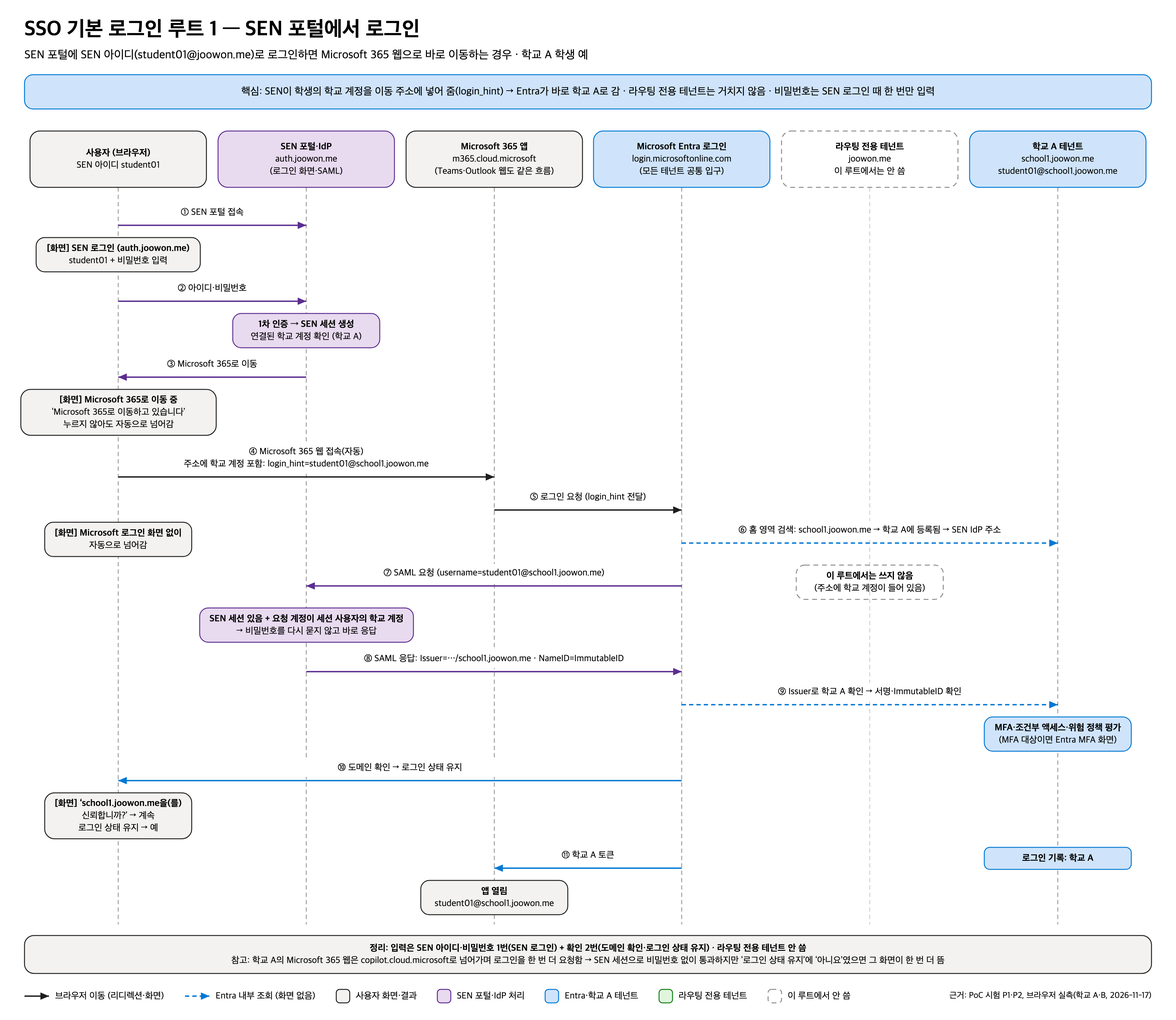
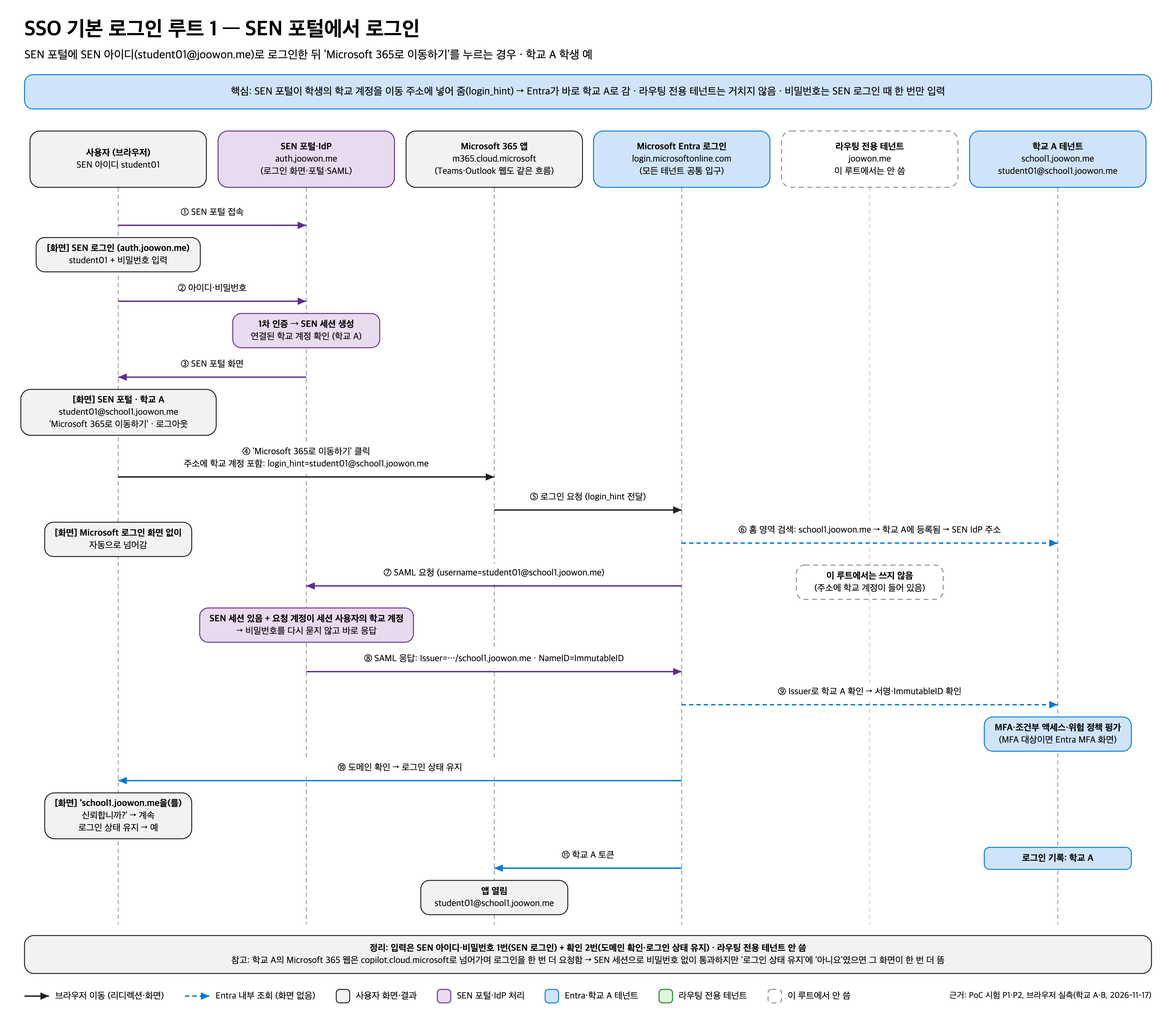
Show a SEN portal after login and a signed-in check on return
After signing in without an app request, show the SEN portal again in a
simpler form: greeting, school, the real Microsoft 365 account, a logout
button and a single 'Microsoft 365로 이동하기' button that uses
Microsoft 365's account switch URL. Coming back to auth.joowon.me while
still signed in shows who is signed in with Microsoft 365 and logout
buttons instead of signing in silently.

Microsoft's logout notice reaches the IdP without the cookie or not at
all, so also keep SEN sign-ins for 10 minutes (IDP_SESSION_MINUTES).
Update the route 1 and configuration diagrams, README and tools.

diff --git a/idp/static/login.css b/idp/static/login.css
@@ -129,7 +129,7 @@ a { color: inherit; }
 .msg:empty { min-height: 0; margin: 0; }
 
 /* 유리 단추 */
-.round, .chip {
+.round, .chip, .btn {
   flex: none; position: relative; display: inline-flex; align-items: center; justify-content: center; border: 0; cursor: pointer;
   background: radial-gradient(120% 120% at 30% 18%, #fff 0%, #f6f7f9 55%, #e9ebef 100%);
   box-shadow: 0 0 0 1px var(--line), 0 3px 8px -4px rgba(15, 23, 42, .2), inset 0 1px 1px #fff, inset 0 -2px 4px rgba(15, 23, 42, .06);
@@ -138,15 +138,20 @@ a { color: inherit; }
 .round { width: 40px; height: 40px; padding: 0; border-radius: 50%; }
 .round svg { width: 18px; height: 18px; transition: opacity .2s; }
 .round:disabled { opacity: .4; cursor: default; }
-.round:not(:disabled):hover, .chip:hover { transform: scale(1.05); }
-.round:not(:disabled):active, .chip:active { transform: scale(.92); transition-duration: .15s; }
-.round:focus-visible, .chip:focus-visible, .icon:focus-visible, .choice:focus-visible {
+.round:not(:disabled):hover, .chip:hover, .btn:hover { transform: scale(1.05); }
+.round:not(:disabled):active, .chip:active, .btn:active { transform: scale(.92); transition-duration: .15s; }
+.round:focus-visible, .chip:focus-visible, .btn:focus-visible, .icon:focus-visible, .choice:focus-visible {
   outline: 2px solid rgba(15, 23, 42, .16); outline-offset: 3px;
 }
 .chip {
   gap: 6px; height: 36px; padding: 0 16px; border-radius: 999px;
   font-size: 14px; font-weight: 500; letter-spacing: -.01em; text-decoration: none; white-space: nowrap;
 }
+.btn {
+  gap: 8px; height: 44px; padding: 0 20px; border-radius: 999px;
+  font-size: 15px; font-weight: 600; letter-spacing: -.01em; text-decoration: none; white-space: nowrap;
+}
+.btn svg { width: 16px; height: 16px; }
 .icon {
   flex: none; display: inline-flex; align-items: center; justify-content: center; width: 38px; height: 38px; padding: 0;
   border: 0; border-radius: 50%; background: none; color: #86868b; cursor: pointer; transition: color .2s var(--ease);
@@ -164,7 +169,7 @@ a { color: inherit; }
 .busy .round::after { position: absolute; inset: 0; margin: auto; }
 @keyframes spin { to { transform: rotate(1turn); } }
 
-/* 로그인 뒤 이동 화면 */
+/* Microsoft로 넘어가는 화면(SAML 응답 자동 전송) */
 .post { display: flex; flex-direction: column; align-items: center; width: 100%; margin-top: 36px; padding-bottom: 8px; }
 .post .spinner { width: 22px; height: 22px; }
 .post-text { margin: 16px 0 0; font-size: 16px; letter-spacing: -.01em; text-align: center; }
@@ -182,8 +187,19 @@ a { color: inherit; }
 .choice:hover { background: rgba(255, 255, 255, .7); }
 .choice .text { flex: 1; min-width: 0; }
 .choice .name { display: block; font-size: 16px; font-weight: 600; letter-spacing: -.01em; }
-.choice .upn { display: block; font: 13px/1.5 var(--mono); color: var(--muted); word-break: break-all; }
+.choice .upn, .tenant .upn { display: block; font: 13px/1.5 var(--mono); color: var(--muted); word-break: break-all; }
 .choice svg { flex: none; width: 18px; height: 18px; color: var(--hint); }
+
+/* SEN 포털(로그인 뒤)·로그인 상태 확인 */
+.card.wide { width: min(560px, 100%); align-items: stretch; padding: 32px 28px 28px; }
+.bar { display: flex; align-items: center; justify-content: space-between; gap: 12px; }
+.card.wide .title { margin-top: 32px; text-align: left; }
+.card.wide .sub { text-align: left; }
+.tenant { margin-top: 24px; padding: 18px 20px 20px; }
+.tenant h2 { margin: 0; font-size: 17px; font-weight: 600; letter-spacing: -.01em; }
+.tenant .upn { margin-top: 2px; }
+.tenant .btn { margin-top: 16px; }
+.actions { display: flex; flex-wrap: wrap; justify-content: center; gap: 10px; margin-top: 24px; }
 
 /* IdP 기록 */
 .card.log { width: min(1200px, 100%); align-items: stretch; padding: 28px; }
@@ -205,7 +221,8 @@ table.log td pre { margin: 0; font: 11px/1.6 var(--mono); white-space: pre-wrap;
   .card { padding: 36px 16px 16px; border-radius: 28px; }
   .row { padding-left: 18px; }
   .row + .row::before { left: 18px; }
-  .card.log { padding: 24px 16px 18px; }
+  .card.wide, .card.log { padding: 24px 16px 18px; }
+  .tenant { padding: 16px; }
 }
 @media (prefers-reduced-motion: reduce) {
   *, *::before, *::after { animation: none !important; transition: none !important; }

diff --git a/idp/templates/portal.html b/idp/templates/portal.html
@@ -1,0 +1,19 @@
+{% extends "_layout.html" %}
+{% block title %}SEN 포털 (PoC){% endblock %}
+{% block body %}
+<div class="glass card wide">
+  <div class="bar">
+    {% include "_logo.html" %}
+    <a class="chip" href="{{ url_for('logout') }}">로그아웃</a>
+  </div>
+  <h1 class="title">{{ name }}님, 안녕하세요</h1>
+  <p class="sub">아이디 {{ uid }}@{{ id_domain }}로 로그인했습니다.</p>
+  <section class="group tenant">
+    <h2>{{ school }}</h2>
+    <span class="upn">{{ upn }}</span>
+    <a class="btn" id="goM365" href="{{ href }}">Microsoft 365로 이동하기
+      <svg viewBox="0 0 24 24" fill="none" stroke="currentColor" stroke-width="2.2" stroke-linecap="round" stroke-linejoin="round" aria-hidden="true"><path d="M5 12h14M13 5.5l6.5 6.5-6.5 6.5"/></svg>
+    </a>
+  </section>
+</div>
+{% endblock %}

diff --git a/idp/templates/signed_in.html b/idp/templates/signed_in.html
@@ -1,0 +1,12 @@
+{% extends "_layout.html" %}
+{% block title %}로그인 상태 (PoC){% endblock %}
+{% block body %}
+<div class="glass card">
+  {% include "_logo.html" %}
+  <h1 class="title">{{ uid }}로 로그인되어 있습니다.</h1>
+  <div class="actions">
+    <a class="btn" id="goM365" href="{{ href }}">Microsoft 365로 이동하기</a>
+    <a class="btn" href="{{ url_for('logout') }}">로그아웃</a>
+  </div>
+</div>
+{% endblock %}

diff --git a/idp/templates/_layout.html b/idp/templates/_layout.html
@@ -8,7 +8,6 @@
   <title>{% block title %}로그인 (PoC){% endblock %}</title>
   <link rel="stylesheet" href="https://cdn.jsdelivr.net/gh/orioncactus/pretendard@v1.3.9/dist/web/static/pretendard.min.css">
   <link rel="stylesheet" href="{{ url_for('static', filename='login.css') }}">
-  {% block head %}{% endblock %}
 </head>
 <body>
 <div class="light" aria-hidden="true"><i></i><i></i></div>

diff --git a/idp/app.py b/idp/app.py
@@ -7,7 +7,8 @@ IdP 한 벌로 여러 테넌트를 처리한다.
 - 인증: IdP는 1차 인증(아이디·비밀번호)만 한다. MFA는 Entra가 직접 수행하므로
   (도메인 federatedIdpMfaBehavior=rejectMfaByFederatedIdp) MFA 수행 표시(multipleauthn)를 보내지 않는다.
 - 로그인 화면: IdP가 /login에서 직접 보낸다. 비밀번호 입력 화면에도 보안 헤더(다른 사이트의 iframe 삽입 차단 등)가 붙는다.
-- 앱 요청 없이 로그인하면(루트 1) 학교 계정으로 Microsoft 365 웹에 바로 들어간다.
+- 앱 요청 없이 로그인하면(루트 1) SEN 포털 화면에 학교 계정과 'Microsoft 365로 이동하기'를 보여 준다.
+- 로그인 유지 시간은 짧게(기본 10분) 둔다. Microsoft 로그아웃 알림이 SEN에 오지 않아도 오래된 로그인을 다시 쓰지 못하게 한다.
 """
 import base64
 import collections
@@ -28,7 +29,7 @@ import saml_core as sc
 HERE = os.path.dirname(os.path.abspath(__file__))
 PENDING_TTL = 15 * 60
 FAIL_WINDOW, FAIL_LIMIT = 10 * 60, 30
-VERSION = "2026-11-17.slo-end-session"
+VERSION = "2026-11-17.sen-portal"
 # Microsoft 365 계정 관리자가 다른 계정으로 바꿀 때 쓰는 주소다. 브라우저에 다른 Microsoft 계정(예: Edge 프로필의
 # 회사 계정)이 로그인돼 있어도 이 학교 계정으로 로그인을 새로 시작한다. 첫 화면 주소(/?login_hint=)는 그런 브라우저에서
 # 힌트를 무시하고 기존 계정으로 열릴 수 있다.
@@ -60,6 +61,7 @@ def _env_config():
         "DATA_DIR": os.environ.get("DATA_DIR", os.path.join(HERE, "data")),
         "SECRET_KEY": os.environ.get("SECRET_KEY") or secrets.token_hex(32),
         "ADMIN_TOKEN": os.environ.get("ADMIN_TOKEN", ""),
+        "SESSION_MINUTES": float(os.environ.get("IDP_SESSION_MINUTES", "10")),
         "ACTIVE_SIGNING": os.environ.get("ACTIVE_SIGNING", "current"),
         "KEYS": {
             "current": (pem("SIGNING_KEY_B64", "current.key"), pem("SIGNING_CERT_B64", "current.pem")),
@@ -85,7 +87,7 @@ def create_app(overrides=None):
         SESSION_COOKIE_HTTPONLY=True,
         # Entra가 POST로 로그인 요청을 보내도 기존 로그인 세션이 전달되도록 None
         SESSION_COOKIE_SAMESITE="None",
-        PERMANENT_SESSION_LIFETIME=dt.timedelta(hours=8),
+        PERMANENT_SESSION_LIFETIME=dt.timedelta(minutes=cfg["SESSION_MINUTES"]),
     )
 
     log_buffer = collections.deque(maxlen=1000)
@@ -178,8 +180,14 @@ def create_app(overrides=None):
     @app.before_request
     def drop_ended_session():
         uid = session.get("uid")
-        if uid and session.get("iat", 0) <= max(ended.get(uid, 0), started):
+        if not uid:
+            return
+        iat = session.get("iat", 0)
+        if iat <= max(ended.get(uid, 0), started):
             log("session_ended", uid=uid)
+            session.clear()
+        elif time.time() - iat > cfg["SESSION_MINUTES"] * 60:
+            log("session_expired", uid=uid)
             session.clear()
 
     @app.after_request
@@ -207,12 +215,17 @@ def create_app(overrides=None):
         if not uid or uid not in users:
             return to_login()
         # SEN 아이디 하나에는 학교 계정이 하나다(학교 테넌트 1곳).
-        accounts = users[uid].get("accounts", [])
-        if not accounts:
+        account = next(iter(users[uid].get("accounts", [])), None)
+        if not account:
             return message("연결된 학교 계정이 없습니다.", 403)
-        log("land_m365", uid=uid, upn=accounts[0]["upn"])
-        # 로그인 폼을 보낸 뒤의 리디렉션에는 로그인 화면의 form-action이 적용되므로, 이 화면에서 새로 이동한다.
-        return render_template("go.html", href=M365_HOME.format(upn=quote(accounts[0]["upn"])))
+        fresh = session.pop("fresh", False)
+        log("sen_home", uid=uid, fresh=fresh)
+        href = M365_HOME.format(upn=quote(account["upn"]))
+        if fresh:
+            return render_template("portal.html", name=users[uid].get("name", uid), uid=uid, upn=account["upn"], href=href,
+                                   school=domains.get(account["domain"], {}).get("schoolName", account["domain"]))
+        # 로그인이 남은 채 다시 들어오면(예: Microsoft에서만 로그아웃한 뒤) 누구로 로그인돼 있는지부터 보여 준다.
+        return render_template("signed_in.html", uid=uid, href=href)
 
     @app.route("/login", methods=["GET", "POST"])
     def login():
@@ -244,6 +257,8 @@ def create_app(overrides=None):
         if p:
             with lock:
                 p["logged_in"] = True
+        else:
+            session["fresh"] = True
         log("login_ok", uid=uid, ip=ip, pending=bool(p), via=request.headers.get("Origin") or "same-origin")
         if k and not p:
             return message("로그인 요청이 만료됐습니다. 앱이나 사이트에서 다시 시작해 주세요.", 400)

diff --git a/tools/record_demos.py b/tools/record_demos.py
@@ -502,7 +502,7 @@ class Run:
             elif host == IDP_HOST:
                 seen_login = True
                 if path.rstrip("/") == "":
-                    continue  # 로그인 뒤 Microsoft 365 웹으로 넘어가는 중
+                    continue  # SEN 포털 화면(단추를 누르면 넘어감)
                 if page.locator("button[name=domain]").count():
                     pick = choose or page.locator("button[name=domain]").first.get_attribute("value")
                     page.wait_for_timeout(1500)
@@ -621,9 +621,9 @@ class Run:
                 pass
         return None
 
-    # ---- SEN 로그인(앱 요청 없이 시작하면 IdP가 Microsoft 365 웹으로 바로 보낸다)
+    # ---- SEN 포털(앱 요청 없이 로그인하면 학교 계정과 'Microsoft 365로 이동하기'를 보여 준다)
     def sen_login(self, idp_user):
-        self.step(f"SEN 로그인({idp_user})")
+        self.step(f"SEN 포털 로그인({idp_user})")
         self.page.goto(f"{IDP}/login", wait_until="commit")
         page = self.page
         page.wait_for_selector("#password", timeout=30000)
@@ -634,7 +634,8 @@ class Run:
         page.locator("#password").press_sequentially(self.rec.password, delay=40)
         page.wait_for_timeout(400)
         page.locator("button[type=submit]").first.click()
-        page.wait_for_url(lambda u: urlparse(u).hostname != IDP_HOST, timeout=30000)
+        page.wait_for_selector("#goM365", timeout=30000)
+        page.wait_for_timeout(2500)
 
     def app(self, name, *, typed=None, idp_user=None, account=None, choose=None, goto=True, url=None):
         self.new_trace()
@@ -731,6 +732,10 @@ def app_flow(name, typed_id, *, account=None, choose=None, idp_user=None):
 def sen_land(idp_user, account):
     def run(r):
         r.sen_login(idp_user)
+        r.page.locator("#goM365").hover()
+        r.page.wait_for_timeout(900)
+        r.step("SEN 포털: Microsoft 365로 이동하기")
+        r.page.locator("#goM365").click()
         out = r.app("m365", goto=False, idp_user=idp_user, account=account)
         r.result_lines.append(app_line(out, account))
         r.matched = expect_app(account)(out)
@@ -796,11 +801,11 @@ def scenarios(rec):
         chain(("첫 로그인", lambda r: r.cli(f"teacher01@{D1}"), expect_success(f"teacher01@{D1}", A, password=True)),
               ("prompt=login", lambda r: r.cli(f"teacher01@{D1}", prompt="login"),
                expect_success(f"teacher01@{D1}", A, password=False))))
-    add("P1", "sso", "SEN 로그인 → Microsoft 365 웹(학교 A)", [("계정", "student01 (SEN 로그인)")],
-        "SEN에 로그인하면 비밀번호를 다시 묻지 않고 학교 Microsoft 365로 바로 들어가는지", "Microsoft 365 진입(학교 A)",
+    add("P1", "sso", "SEN 포털 → Microsoft 365로 이동하기(학교 A)", [("계정", "student01 (SEN 포털)")],
+        "SEN 포털에서 단추를 누르면 비밀번호를 다시 묻지 않고 학교 Microsoft 365로 들어가는지", "Microsoft 365 진입(학교 A)",
         sen_land("student01", f"student01@{D1}"))
-    add("P2", "sso", "SEN 로그인 → Microsoft 365 웹(학교 B)", [("계정", "student02 (SEN 로그인)")],
-        "다른 학교 테넌트 학생도 SEN 로그인만으로 바로 들어가는지", "Microsoft 365 진입(학교 B)",
+    add("P2", "sso", "SEN 포털 → Microsoft 365로 이동하기(학교 B)", [("계정", "student02 (SEN 포털)")],
+        "다른 학교 테넌트 학생도 SEN 포털에서 바로 들어가는지", "Microsoft 365 진입(학교 B)",
         sen_land("student02", f"student02@{D2}"))
     # 거부
     add("B2a", "reject", "등록되지 않은 Issuer로 보낸 응답", [("계정", f"badissuer01@{D1}")],

diff --git a/tools/e2e_signin.py b/tools/e2e_signin.py
@@ -197,10 +197,10 @@ class Browser:
         return outcome
 
     def landing(self, idp_user):
-        """앱 요청 없이 SEN에 로그인했을 때(루트 1) IdP가 보내 주는 Microsoft 365 웹 주소를 따라간다."""
+        """앱 요청 없이 SEN에 로그인한 뒤(루트 1) SEN 포털의 'Microsoft 365로 이동하기' 주소를 따라간다."""
         self.s.post(f"{IDP}/login", data={"username": idp_user, "password": self.password}, allow_redirects=False)
         page = self.s.get(f"{IDP}/", allow_redirects=False)
-        m = re.search(r'http-equiv="refresh" content="0;url=([^"]+)"', page.text)
+        m = re.search(r'id="goM365" href="([^"]+)"', page.text)
         if not m:
             return {"result": "no_landing", "status": page.status_code, "steps": [], "idpLogin": True, "entraMfa": False}
         url = html.unescape(m.group(1))
@@ -364,8 +364,8 @@ SCENARIOS = [
     ("R3", "4번: 겸임교사 통합 아이디 → 학교 B 선택", "관찰", lambda b: b.sign_in(f"multi01@{DR}", choose=D2)),
     ("R4", "4번: MS 로그인 화면에 통합 아이디 직접 입력 → 학교 B", "관찰",
      lambda b: b.sign_in(f"student02@{DR}", hint=False)),
-    ("P1", "SEN 로그인 → Microsoft 365 웹으로 바로 이동(학교 A)", "성공(학교 A)", lambda b: b.landing("student01")),
-    ("P2", "SEN 로그인 → Microsoft 365 웹으로 바로 이동(학교 B)", "성공(학교 B)", lambda b: b.landing("student02")),
+    ("P1", "SEN 포털 'Microsoft 365로 이동하기'(학교 A)", "성공(학교 A)", lambda b: b.landing("student01")),
+    ("P2", "SEN 포털 'Microsoft 365로 이동하기'(학교 B)", "성공(학교 B)", lambda b: b.landing("student02")),
     # --- ④ 라우팅 도메인 심층 ---
     ("R5", "4번: 학교 B 테넌트를 지정한 앱(SharePoint 등)에 통합 아이디", "성공(학교 B)",
      lambda b: b.sign_in(f"student02@{DR}", tenant=tenant_of(D2))),

diff --git a/idp/tests/test_idp.py b/idp/tests/test_idp.py
@@ -336,14 +336,23 @@ def test_metadata_per_domain(client):
     assert len(root.findall(f".//{{{sc.NS_DS}}}X509Certificate")) == 2
 
 
-def test_login_without_app_request_lands_on_m365(client):
-    # 앱 요청 없이 SEN에서 로그인하면(루트 1) 학교 계정을 login_hint로 넣어 Microsoft 365 웹으로 보낸다
+def test_login_shows_sen_portal_then_signed_in_check(client):
+    # 앱 요청 없이 로그인하면(루트 1) SEN 포털에 학교 계정과 Microsoft 365 이동 단추를 보여 준다
     assert urlparse(get(client, "/").location).path == "/login"
     r = login(client, "student01")
     assert r.status_code == 302 and urlparse(r.location).path == "/"
+    go = 'href="https://m365.cloud.microsoft/login?es=Click&amp;login_hint=student01%40school1.example.edu"'
     page = get(client, "/").get_data(as_text=True)
-    assert 'content="0;url=https://m365.cloud.microsoft/login?es=Click&amp;login_hint=student01%40school1.example.edu"' in page
-    assert get(client, "/portal").status_code == 404
+    assert "학생01님, 안녕하세요" in page and "학교 A" in page and "student01@school1.example.edu" in page and go in page
+    # 로그인이 남은 채 다시 들어오면 누구로 로그인돼 있는지 먼저 보여 준다
+    again = get(client, "/").get_data(as_text=True)
+    assert "student01로 로그인되어 있습니다." in again and go in again and 'href="/logout"' in again
+
+
+def test_sen_session_ends_after_lifetime(data_dir):
+    c = make_app(data_dir, SESSION_MINUTES=0).test_client()
+    login(c, "student01")
+    assert urlparse(get(c, "/").location).path == "/login"
 
 
 # --- Entra가 넘기는 username(입력한 아이디) 처리 ---

diff --git a/README.md b/README.md
@@ -23,7 +23,7 @@
 
 - **라우팅 전용 테넌트:** 학생·교사 계정과 라이선스 없이 SEN 아이디 도메인만 등록합니다. 라우팅 설정(페더레이션)은 이 테넌트 관리자만 바꿀 수 있어, 학교 테넌트 관리자는 전체 학생의 SEN 아이디 로그인 경로를 바꿀 수 없습니다.
 - **주소**
-  - https://auth.joowon.me/login : SEN IdP(SEN 로그인 화면 `/login`, SAML). 로그인하면 Microsoft 365 웹으로 바로 이동합니다(루트 1)
+  - https://auth.joowon.me/login : SEN IdP(SEN 로그인 화면 `/login`, SEN 포털, SAML)
   - https://m365.cloud.microsoft : Microsoft 365 로그인 화면
 - **테스트 계정**
   - 학생·교사: `student01`·`student02`·`teacher01`
@@ -54,7 +54,7 @@
 
 | 항목 | 루트 1: SEN 포털 | 루트 2: MS 웹 + SEN 아이디 | 루트 3: MS 웹 + 학교 계정 |
 |---|---|---|---|
-| 시작 | SEN 로그인 → Microsoft 365 웹(`m365.cloud.microsoft`)으로 바로 이동 | `student01@joowon.me` 입력 | 실제 MS 계정 `student01@school1.joowon.me` 입력(또는 계정 선택 화면) |
+| 시작 | SEN 포털 로그인 → 'Microsoft 365로 이동하기' | `student01@joowon.me` 입력 | 실제 MS 계정 `student01@school1.joowon.me` 입력(또는 계정 선택 화면) |
 | 홈 영역 검색 | `school1` → 학교 A(이동 주소의 `login_hint`) | `joowon.me` → 라우팅 전용 테넌트 | `school1` → 학교 A |
 | SEN 로그인 화면 | 처음 로그인 때 한 번 | 아이디 미리 채움 | '학교 A' 표시, 아이디 빈칸(PoC) |
 | Microsoft 확인 화면 | 도메인 확인 + 로그인 상태 유지 | 로그인 상태 유지 | 로그인 상태 유지 |
@@ -65,7 +65,11 @@
 확인한 동작:
 
 - 페더레이션된 도메인이면 Entra는 계정이 있는지 보지 않고 도메인만 보고 SEN 로그인 화면으로 보냅니다.
-- 루트 1은 Microsoft 365 계정 관리자가 계정을 바꿀 때 쓰는 주소(`m365.cloud.microsoft/login?login_hint=학교 계정`)로 보냅니다. 첫 화면 주소(`m365.cloud.microsoft/?login_hint=`)는 Edge 프로필에 다른 회사 계정이 로그인돼 있으면 힌트를 무시하고 그 계정으로 열렸습니다(SEN에 요청이 오지 않음).
+- 루트 1의 'Microsoft 365로 이동하기'는 Microsoft 365 계정 관리자가 계정을 바꿀 때 쓰는 주소(`m365.cloud.microsoft/login?login_hint=학교 계정`)입니다. 첫 화면 주소(`m365.cloud.microsoft/?login_hint=`)는 Edge 프로필에 다른 회사 계정이 로그인돼 있으면 힌트를 무시하고 그 계정으로 열렸습니다(SEN에 요청이 오지 않음).
+- Microsoft 로그아웃은 SEN에 제대로 전달되지 않았습니다. 로그아웃 요청이 SEN 쿠키 없이 오거나(Edge) 아예 오지 않았습니다(Chromium·Edge 새 프로필 자동 시험). 그래서 SEN은 다음처럼 처리합니다.
+  - 로그아웃 요청이 오면 NameID(ImmutableID)로 그 사용자의 SEN 세션을 서버에서 끝냅니다.
+  - 로그인은 10분만 유지합니다.
+  - 로그인이 남은 채 `auth.joowon.me`에 다시 들어오면 'student01로 로그인되어 있습니다'와 [Microsoft 365로 이동하기]·[로그아웃]을 보여 줍니다.
 - Microsoft 세션이 있으면 대개 SEN을 거치지 않습니다. 앱이 다시 요청하면 SEN을 한 번 거치지만, SEN 세션이 있으면 비밀번호 없이 통과합니다.
 - 루트 2로 처음 로그인하면 다음부터 계정 선택 화면에는 학교 계정만 남습니다. 그래서 반복 로그인은 대부분 루트 3입니다.
 - 비밀번호는 세 루트 모두 SEN 화면에서만 입력합니다. MFA 대상 계정은 SEN 로그인 뒤 Entra MFA를 거칩니다.
@@ -79,12 +83,12 @@
 
 ### 5.1 기본 SSO와 거부
 
-- **학교 계정과 SEN 로그인:** 학교 계정 로그인과 SEN 로그인 뒤 Microsoft 365 이동(루트 1) 모두 성공했습니다.
+- **학교 계정과 SEN 포털:** 학교 계정 로그인과 SEN 포털의 'Microsoft 365로 이동하기'(루트 1) 모두 성공했습니다.
 - **거부:** 위조·오류는 모두 거부됐습니다.
   - 등록 안 된 Issuer: AADSTS50107
   - 서명 변조: AADSTS500069
   - ImmutableID 없음: AADSTS90019·90072
-- **재인증 요구:** 앱의 재인증 요구(`prompt=login`)는 IdP에 전달되지 않습니다. 재인증 주기는 IdP 세션 수명으로 통제합니다.
+- **재인증 요구:** 앱의 재인증 요구(`prompt=login`)는 IdP에 전달되지 않습니다. 재인증 주기는 IdP 세션 수명(PoC 10분)으로 통제합니다.
 - **인증서 교체:** 두 테넌트 모두 성공했습니다.
 - **Entra 요청 형식:** 서명 없는 POST 요청이고, 폼에 `username`이 들어 있습니다.
 - **IdP 구현 요건:** SAML 응답 자동 전송 화면에는 CSP `form-action`을 제한하지 않습니다.
@@ -119,7 +123,7 @@
 4. 학교 도메인 요청에도 아이디를 채우고, 아이디의 도메인은 떼고 처리합니다.
 5. 연결된 학교 계정이 없으면 안내 화면을 보여 줍니다.
 6. 실패 제한은 계정 단위로 둡니다.
-7. 세션 수명과 로그아웃 연동(SLO)을 정합니다.
+7. 세션 수명과 로그아웃 연동(SLO)을 정합니다. Microsoft 로그아웃 요청은 SEN 쿠키 없이 오거나 오지 않을 수 있으므로, 요청이 오면 서명을 검증한 뒤 NameID로 세션을 서버에서 끝내고 세션 수명은 짧게 둡니다.
 8. 서명키를 정기 교체합니다.
 9. SAML 응답 화면의 CSP를 위 5.1대로 둡니다.
 
@@ -242,7 +246,7 @@ A3는 Microsoft 365 A3(Entra ID P1) 기준입니다. Office 365 A3는 Entra ID F
 
 | 폴더 | 내용 |
 |---|---|
-| `idp/` | 테스트 IdP(Flask). 로그인 화면, 도메인별 Issuer·로그인 주소, 응답 서명, SEN 아이디 라우팅, 로그인 뒤 Microsoft 365 이동, 기록 |
+| `idp/` | 테스트 IdP(Flask). 로그인 화면, 도메인별 Issuer·로그인 주소, 응답 서명, SEN 아이디 라우팅, SEN 포털, 로그아웃 연동, 기록 |
 | `graph/` | Microsoft Graph 일괄 설정 스크립트(현황 점검, ImmutableID, 페더레이션, 인증서 교체, 원복) |
 | `tools/` | 토큰 도우미, 테넌트 준비, 테스트 데이터·계정 생성, 배포, 로그인 종단 시험, 브라우저 시연, 보안 데모, 시연 영상 녹화 |
 | `tests/` | Graph 스크립트 오프라인 시험(가짜 테넌트) |
@@ -332,7 +336,7 @@ python tools/record_demos.py --out-dir out/demo --publish ../m365-edu-sso-poc-de
 | C6 | 등록한 인증 수단이 없는 MFA 대상 계정 | 로그인 중 Microsoft 등록 화면에서 인증 앱을 등록한 뒤 로그인 |
 | C7 / C8 | MFA 필수 계정(학교 A `mfa01`, 학교 B `mfa02`) | SEN 로그인 뒤 Entra가 인증 앱 코드를 요구, 성공 |
 | F0 → F1 | 앱이 재인증(`prompt=login`) 요구 | IdP에 전달되지 않음, IdP 세션으로 바로 통과 |
-| P1 / P2 | SEN 로그인 → Microsoft 365 웹으로 바로 이동(`student01` / `student02`) | 성공(학교 A / 학교 B) |
+| P1 / P2 | SEN 포털 'Microsoft 365로 이동하기' → Microsoft 365 웹(`student01` / `student02`) | 성공(학교 A / 학교 B) |
 | 인증서 교체 | IdP 서명을 다음 인증서로 전환(테넌트에는 다음 인증서만 등록된 상태) | 두 테넌트 모두 성공 |
 | R5 | 학교 B 테넌트를 지정한 앱(SharePoint처럼 테넌트 고정 주소)에 SEN 아이디 입력 | 성공 |
 | R6 | 라우팅 테넌트를 지정한 앱에 학교 B 학생 | 거부(AADSTS50020) |
@@ -350,5 +354,6 @@ python tools/record_demos.py --out-dir out/demo --publish ../m365-edu-sso-poc-de
 - R5~R14는 라우팅 도메인이 학교 테넌트에 있을 때(2026-11-12) 시험했습니다. 라우팅 전용 테넌트로 옮긴 뒤(2026-11-15) R6·R9·R10·R11·R12·R13·R14를 다시 확인했습니다.
 - 로그인 화면을 IdP(`auth.joowon.me/login`)로 옮긴 뒤(2026-11-17) A1·A2·A3, B2a·B2b, C1·C1b, C7·C8, F0·F1, P1·P2, R13·R14를 다시 확인했습니다(C8은 브라우저로 확인).
 - IdP 화면 디자인을 바꾼 뒤(2026-11-17) A1·A3·B2a·P1·R13·R14를 다시 확인했고, A3·P1·R13은 브라우저로도 확인했습니다.
-- SEN 포털 화면을 없애고 로그인 뒤 Microsoft 365 웹으로 바로 이동하게 바꾼 뒤(2026-11-17) P1·P2를 다시 확인했습니다(P1은 브라우저로도 확인).
+- SEN 포털을 'Microsoft 365로 이동하기' 단추 하나로 바꾼 뒤(2026-11-17) P1·P2를 다시 확인했습니다(P1은 브라우저로도 확인).
 - 브라우저에 다른 학교 계정(`student01`)이 로그인된 상태에서 `student02`로 SEN에 로그인해도 Microsoft 365가 `student02`로 열리는 것을 확인했습니다(2026-11-17).
+- Microsoft 로그아웃 요청이 SEN 쿠키 없이 와도 그 사용자의 SEN 세션이 끝나는 것(단위 시험)과, 로그인이 남은 채 `auth.joowon.me`에 다시 들어오면 로그인 상태 확인 화면이 나오는 것(브라우저)을 확인했습니다(2026-11-17).
